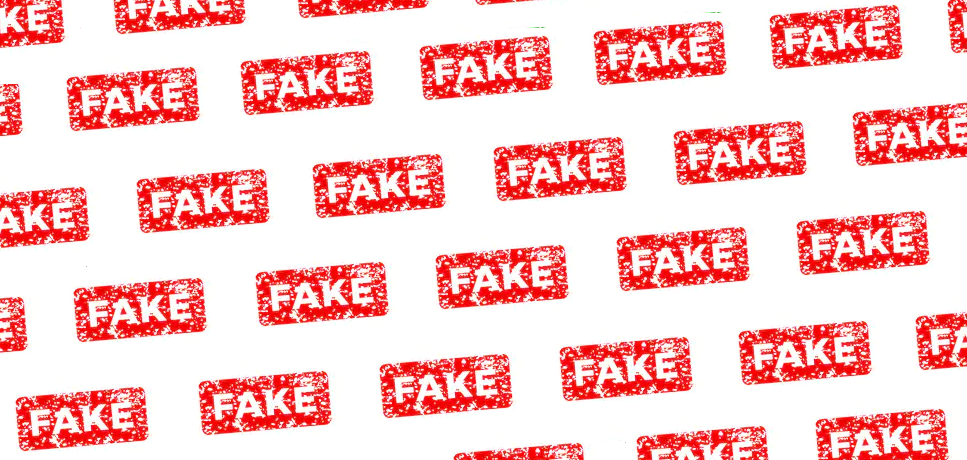
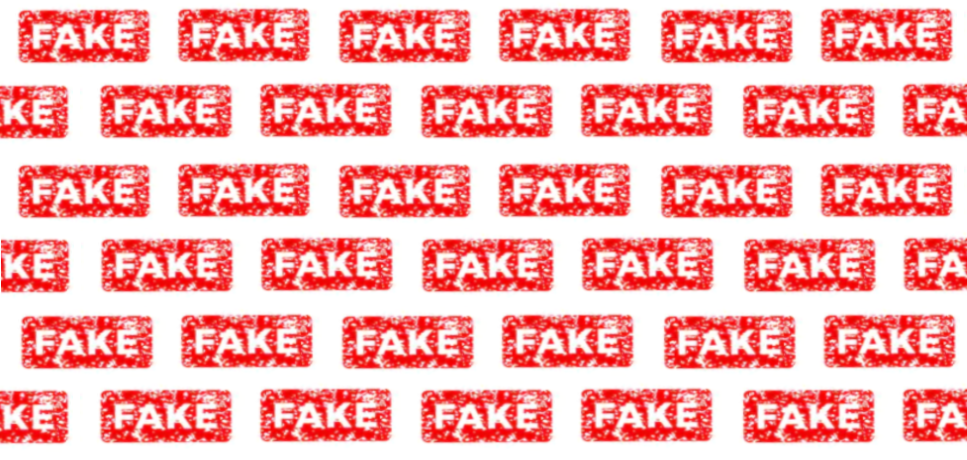
modified backgrpound images

diff --git a/static/styles/style.css b/static/styles/style.css
@@ -2089,7 +2089,8 @@ textarea:focus, input:focus{
 
 #insta-profile{
   display: none;
- /* background: url('../img/real-img.png');*/
+  background: url('../img/bg2.png');
+  background-size: cover;
   position: relative;
 }
 
